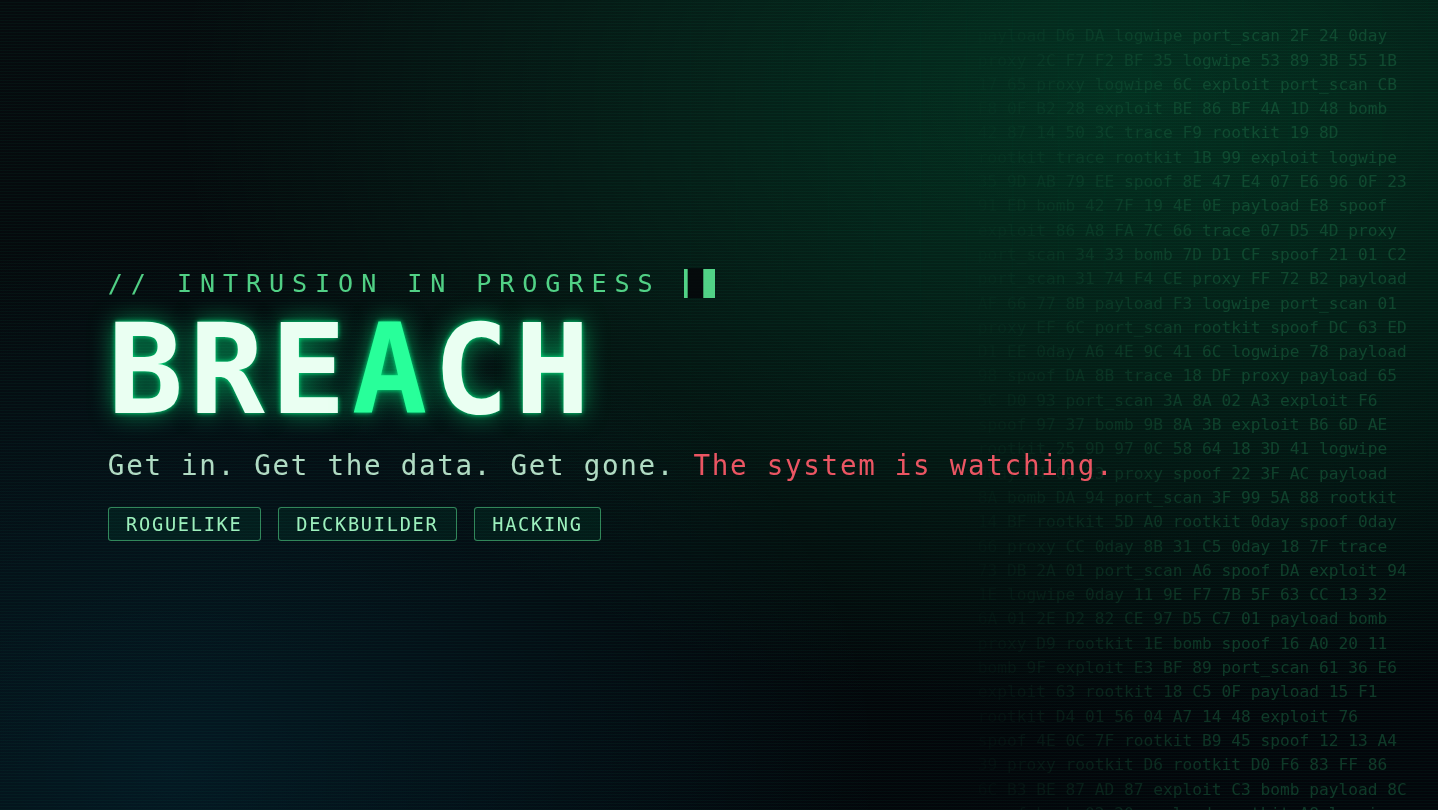
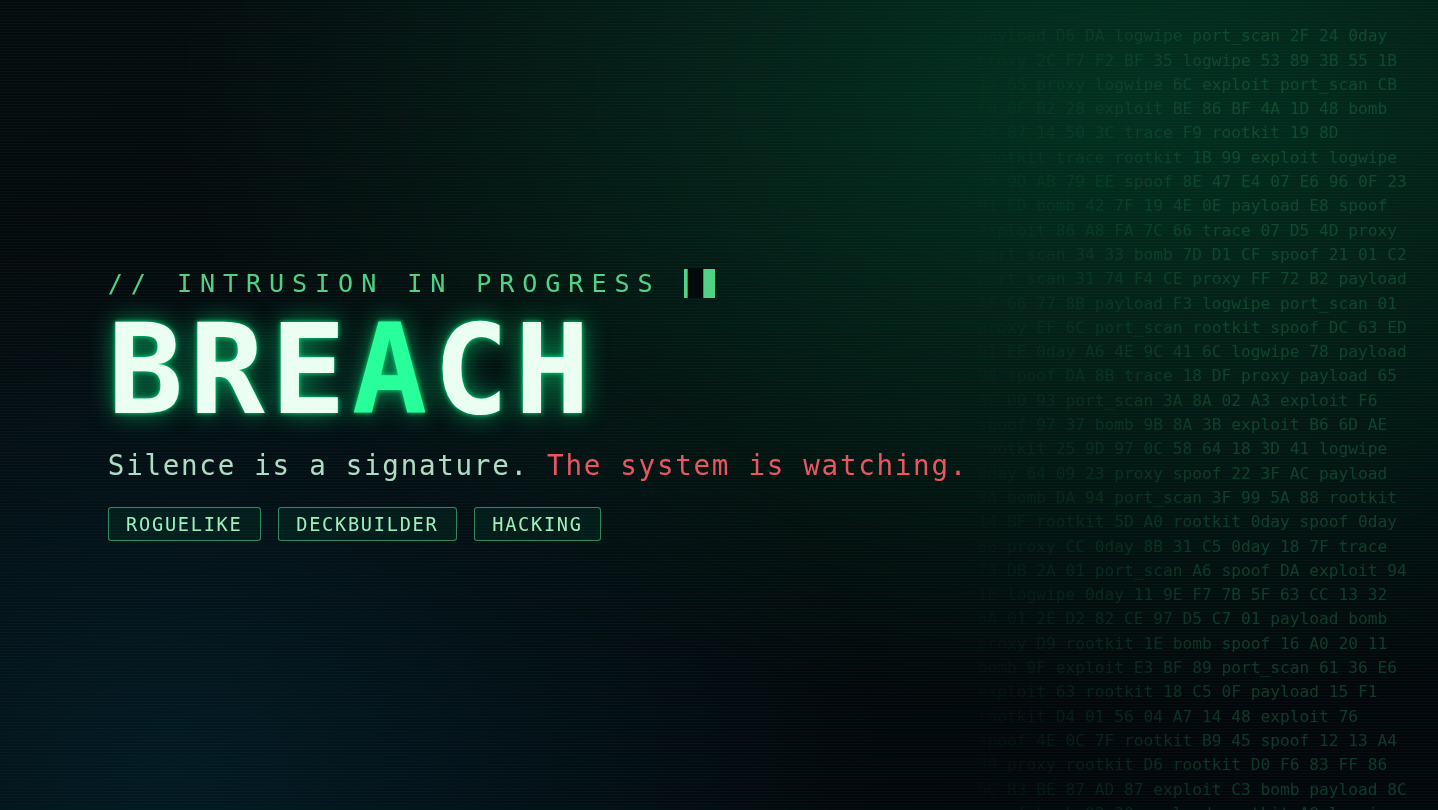
BREACH: Steam launch kit — current-spec capsules, fresh 1080p screenshots, refreshed store copy
Claude-Session: https://claude.ai/code/session_01NzuMD31iEAuFX5HLA3P1Ro

Changed region(s): [[0.0612, 0.5556, 0.765, 0.5864]]

diff --git a/breach-prototype/marketing/STORE_COPY.md b/breach-prototype/marketing/STORE_COPY.md
@@ -48,9 +48,12 @@ Clear a campaign to raise your Threat Level — escalating ascension-style diffi
 [*]Deckbuilding roguelike with a full intrusion theme — no filler, every card is a tactic
 [*]Branching campaign map with meaningful routes and a run-wide heat system
 [*]4 playable operators with distinct decks and passives
-[*]A reactive antagonist that hunts you mechanically, not just narratively
+[*]A reactive antagonist that hunts you mechanically, not just narratively — and a final boss, THE CORE, that learns, hunts, and stitches its own wounds shut
+[*]Active defenses (ICE) that bite back — reactive armor, black ICE, self-healing walls — and the counter-tools to crack them, including the armor-melting CORRODE keyword
+[*]Distinct target archetypes: honeypot traps, live-monitored networks on an accelerating clock, self-healing mesh grids
 [*]Per-run modifiers, an event deck, and collectible implants for high replayability
 [*]Threat Levels + Operator Profile meta-progression
+[*]A living interface: the target rendered as a ring-core you drill into, a backdrop that reddens as the trace closes in, and a scored cinematic finale on every job
 [*]Slick terminal aesthetic, fully synthesized sound, deterministic seeded runs
 [/list]
 
